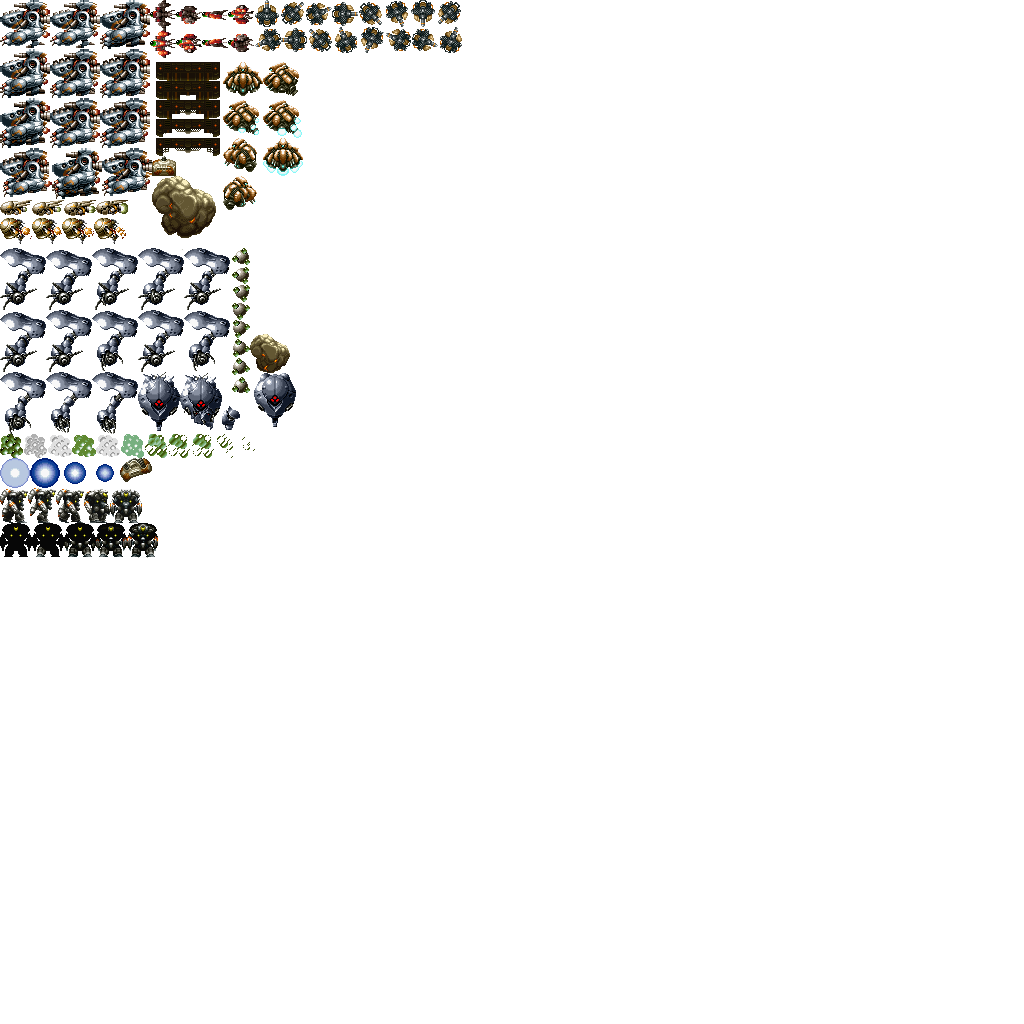
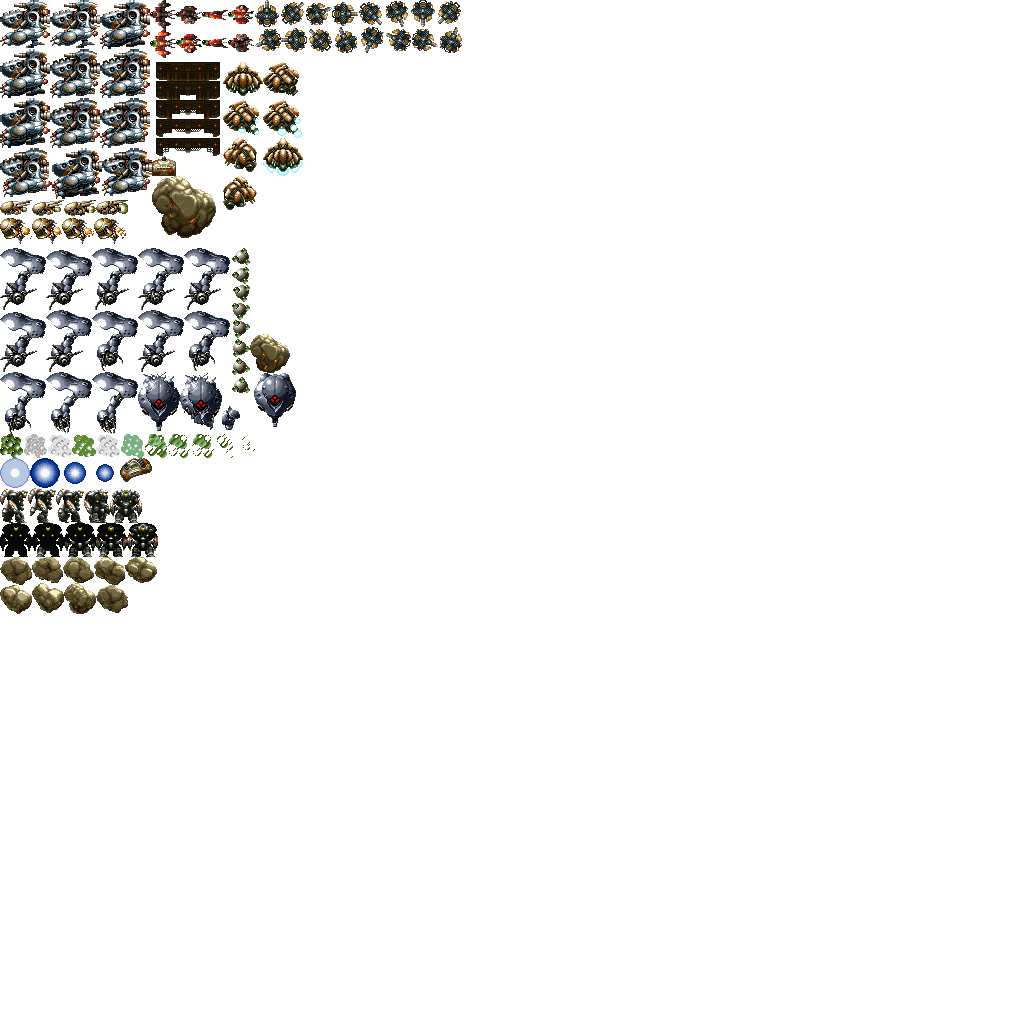
adding little asteroid

Changed region(s): [[0.0, 0.5312, 0.1562, 0.5938]]

diff --git a/LastResort/Enemy_Little_Asteroid.cpp b/LastResort/Enemy_Little_Asteroid.cpp
@@ -1,0 +1,38 @@
+#include "Enemy_Little_Asteroid.h"
+#include "ModuleRender.h"
+#include "Application.h"
+Enemy_Little_Asteroid::Enemy_Little_Asteroid(int x, int y, POWERUP_TYPE pu_t) :Enemy(x, y, pu_t)
+{
+	LittleAsteroid.PushBack({ 0,557,32,28 });
+	LittleAsteroid.PushBack({ 32,557,32,28 });
+	LittleAsteroid.PushBack({ 0,557,31,26 });
+	LittleAsteroid.PushBack({ 63,557,31,26 });
+	LittleAsteroid.PushBack({ 94,557,31,28 });
+	LittleAsteroid.PushBack({ 125,557,32,26 });
+	LittleAsteroid.PushBack({ 0,585,32,29 });
+	LittleAsteroid.PushBack({ 32,583,32,30 });
+	LittleAsteroid.PushBack({ 64,583,32,32 });
+	LittleAsteroid.PushBack({ 97,585,31,28 });
+	LittleAsteroid.speed = 0.2;
+	animation = &LittleAsteroid;
+}
+
+void Enemy_Little_Asteroid::Move()
+{
+
+}
+void Enemy_Little_Asteroid::Draw(SDL_Texture* sprites)
+{
+	if (collider != nullptr)
+		collider->SetPos(position.x - animation->GetFrame().w / 2, position.y - animation->GetFrame().h / 2);
+
+	if (animation != nullptr)
+	{
+		App->render->Blit(sprites, position.x - animation->GetFrame().w / 2, position.y - animation->GetFrame().h / 2, &(animation->GetCurrentFrame()));
+
+	}
+}
+void Enemy_Little_Asteroid::OnCollision(Collider*)
+{
+
+}

diff --git a/LastResort/Enemy_Little_Asteroid.h b/LastResort/Enemy_Little_Asteroid.h
@@ -1,0 +1,20 @@
+#ifndef __ENEMY_LITTLE_ASTERIOD_H__
+#define __ENEMY_LITTLE_ASTERIOD_H__
+
+#include "Enemy.h"
+#include "ModuleParticles.h"
+class Enemy_Little_Asteroid : public Enemy
+{
+private:
+	Animation LittleAsteroid;
+public:
+	Enemy_Little_Asteroid(int x, int y, POWERUP_TYPE pu_t);
+	~Enemy_Little_Asteroid() {};
+	void Move();
+	void Draw(SDL_Texture* sprites);
+	void OnCollision(Collider*);
+
+};
+
+#endif // __ENEMY_LITTLE_ASTERIOD_H__
+

diff --git a/LastResort/ModuleEnemies.h b/LastResort/ModuleEnemies.h
@@ -28,6 +28,7 @@ enum ENEMY_TYPES
 	MECH_SPAWNER,
 	BIG_ASTEROID,
 	MIDDLE_ASTEROID,
+	LITTLE_ASTEROID,
 	MAX_ENEMY
 };
 
